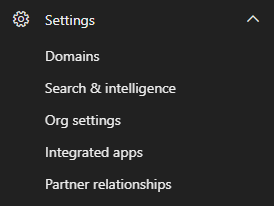
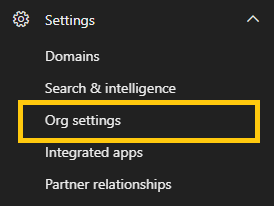
marking images

Changed region(s): [[0.0584, 0.466, 0.9635, 0.699]]

diff --git a/data/blog/Get-Viva-Learning-Up-And-Running-Using-SharePoint.md b/data/blog/Get-Viva-Learning-Up-And-Running-Using-SharePoint.md
@@ -103,7 +103,7 @@ Learning App Content Repository is used to tell the Viva Learning job where it s
 
 2. Press Share And then Change type to "People in ... with the Link"
 
-   ![Image](/static/images/assets/Vivalearning20220929/screenshot-2022-10-16-145450.png)
+   ![Image](/static/images/assets/Vivalearning20220929/screenshot-2022-10-16-145451.png)
 
 3. Set permission to Can view and then Apply!
 
